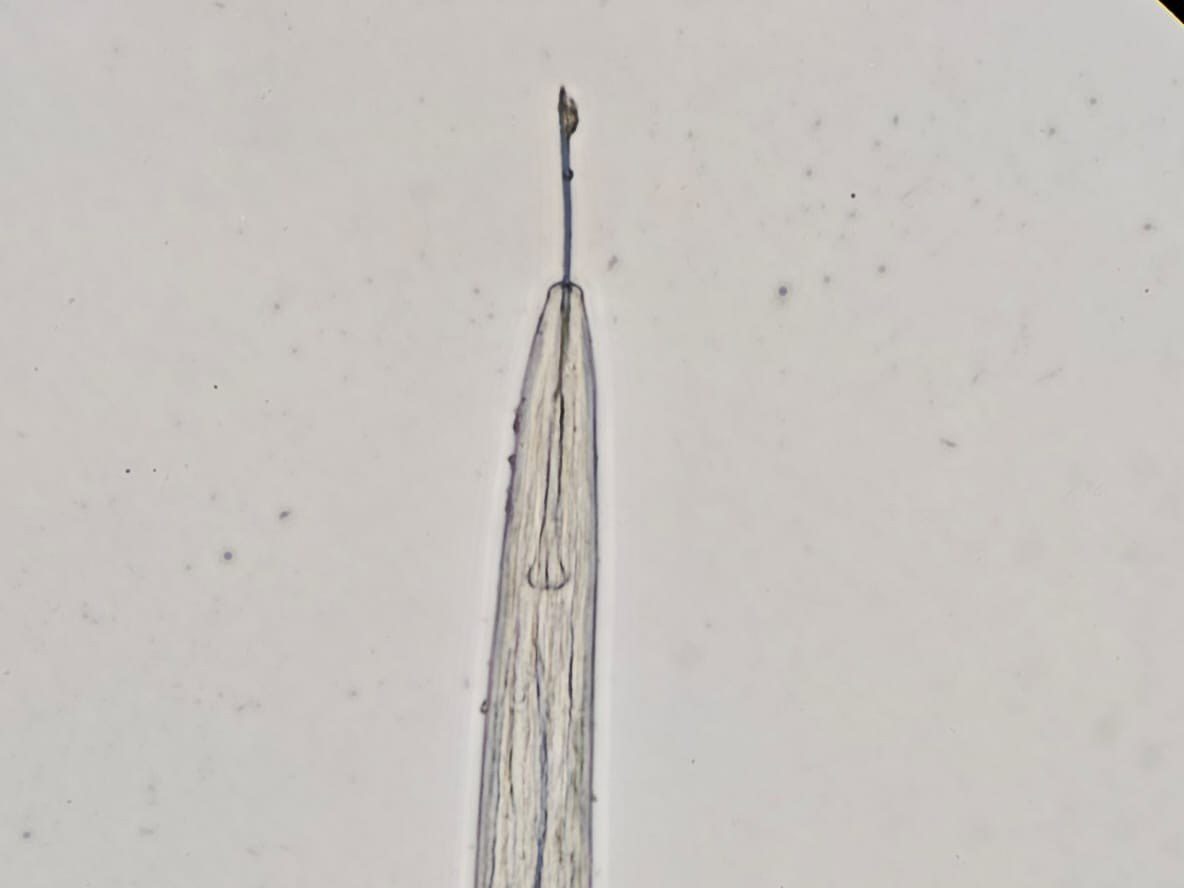
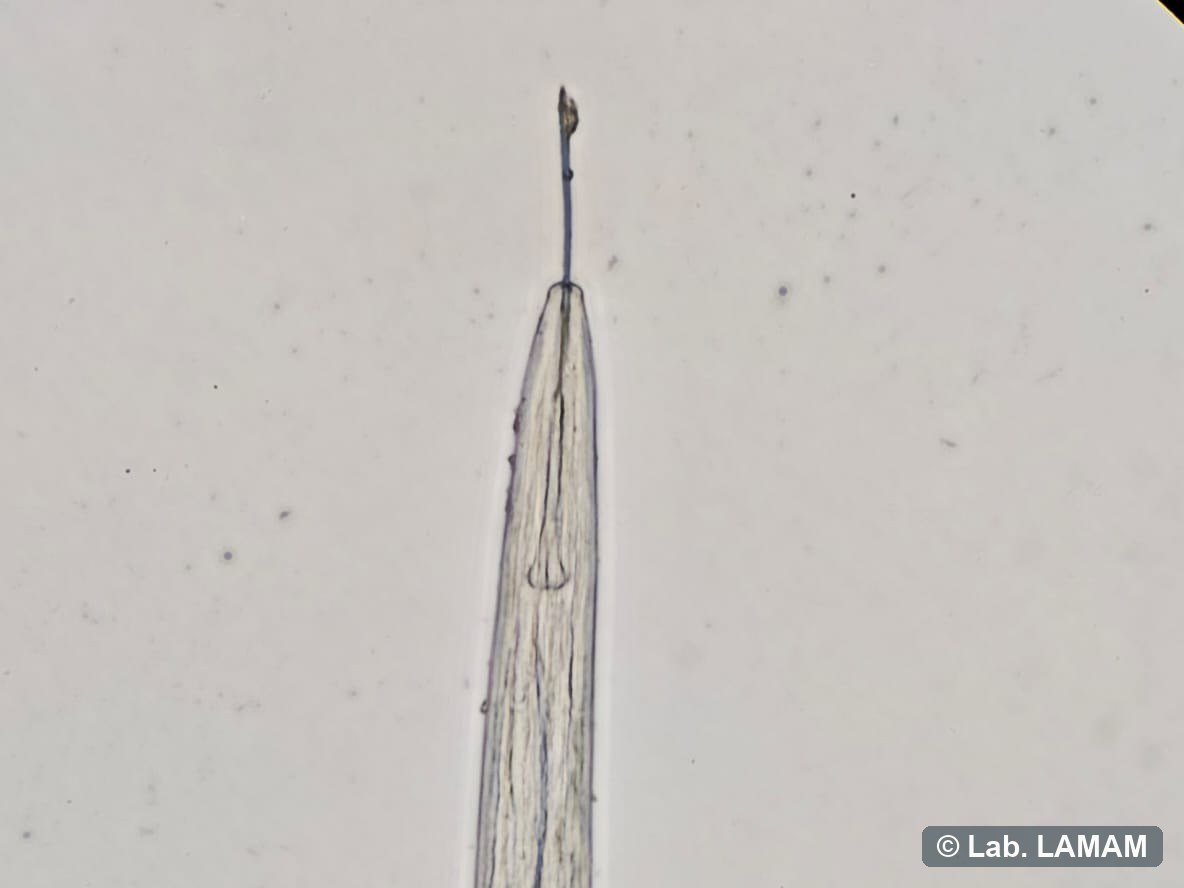
Modal de orcamento abre NA propria pagina de servico (sem ir pra home)
- orcamento.js: modal reutilizavel (CSS+HTML+envio Web3Forms) que se injeta
  na pagina e abre no lugar; gatilho via data-orc-open, data-orc pre-marca a
  analise. Incluido nas 14 paginas de servico.
- CTA "Solicitar esta analise": agora data-orc-open (mantem link p/ home como
  fallback sem-JS). Antes navegava pra index.html e "voltava pra home".
- Hero fitonematoides: marca d'agua "(c) Lab. LAMAM" de volta + ?v=2 p/ furar
  cache da imagem + alt descritivo.

Testado com Edge/Playwright: modal abre na mesma pagina, nao navega, e marca
o checkbox correto.

Changed region(s): [[0.7812, 0.9122, 1.0, 1.0]]

diff --git a/orcamento.js b/orcamento.js
@@ -1,0 +1,162 @@
+/* Modal de orçamento reutilizável para as páginas de serviço.
+   Injeta CSS + HTML + lógica de envio (Web3Forms) e abre NO LUGAR (sem navegar).
+   Uso: num link/botão, adicione  data-orc-open  e (opcional)  data-orc="<Análise>"
+   para já marcar o checkbox correspondente.
+   Obs.: a chave Web3Forms e o formulário são os MESMOS do modal inline do index.html
+   (se um dia trocar a chave, trocar nos dois lugares). */
+(function(){
+  var CSS = `
+  .orc-modal{position:fixed;inset:0;z-index:210;display:none;padding:20px;overflow-y:auto;
+    background:rgba(4,10,18,.72);backdrop-filter:blur(5px);-webkit-backdrop-filter:blur(5px)}
+  .orc-modal.on{display:block}
+  .orc-cx{background:#fff;color:#37505f;max-width:560px;width:100%;border-radius:18px;padding:30px 32px;
+    box-shadow:0 30px 80px rgba(0,0,0,.45);font-family:'Inter',system-ui,Arial,sans-serif;position:relative;margin:24px auto}
+  .orc-cx h2{font-family:'Poppins',sans-serif;font-size:1.35rem;color:#15507a;margin:0 0 4px;font-weight:700}
+  .orc-sub{font-size:.9rem;color:#5b7085;margin:0 0 18px;line-height:1.5}
+  .orc-x{position:absolute;top:14px;right:16px;background:none;border:none;font-size:26px;line-height:1;color:#8295a3;cursor:pointer}
+  .orc-x:hover{color:#15507a}
+  .orc-field{margin-bottom:14px}
+  .orc-field label.lbl{display:block;font-size:.82rem;font-weight:600;color:#37505f;margin-bottom:5px}
+  .orc-field input,.orc-field textarea{width:100%;padding:11px 13px;border:1px solid #d6e3ee;border-radius:10px;
+    font-family:inherit;font-size:.92rem;color:#37505f;background:#f9fbfd}
+  .orc-field input:focus,.orc-field textarea:focus{outline:none;border-color:#3da9dc;box-shadow:0 0 0 3px rgba(61,169,220,.15)}
+  .orc-field textarea{resize:vertical;min-height:82px}
+  .orc-checks{display:grid;grid-template-columns:1fr 1fr;gap:7px 14px;margin-top:2px}
+  .orc-checks label{display:flex;align-items:center;gap:8px;font-size:.85rem;font-weight:500;color:#37505f;cursor:pointer}
+  .orc-checks input{width:auto;accent-color:#3da9dc;flex:0 0 auto}
+  .orc-send{width:100%;margin-top:8px;padding:13px;border:none;border-radius:30px;cursor:pointer;
+    background:linear-gradient(135deg,#5cc6f5,#3da9dc);color:#04121c;font-weight:700;font-size:.98rem;font-family:inherit;
+    display:flex;align-items:center;justify-content:center;gap:8px;transition:transform .15s}
+  .orc-send:hover{transform:translateY(-2px)}
+  .orc-send svg{width:18px;height:18px}
+  .orc-note{font-size:.78rem;color:#8295a3;margin:10px 0 0;text-align:center;line-height:1.5}
+  .orc-cx .hp{display:none}
+  .orc-status{font-size:.86rem;text-align:center;margin:12px 0 0;min-height:1.1em;line-height:1.5}
+  .orc-status.ok{color:#1f9d57;font-weight:600}
+  .orc-status.err{color:#c23a3a}
+  .orc-send[disabled]{opacity:.6;cursor:default;transform:none}
+  .chkline{display:flex;align-items:flex-start;gap:8px;font-size:.88rem;font-weight:500;color:#37505f;cursor:pointer;line-height:1.4}
+  .chkline input{width:auto;accent-color:#3da9dc;flex:0 0 auto;margin-top:2px}
+  .orc-formal{border:1px dashed #cfe0ee;border-radius:10px;padding:14px 14px 2px;margin:6px 0 4px;background:#f6fafd}
+  .orc-formal[hidden]{display:none}
+  @media(max-width:520px){.orc-cx{padding:24px 20px}.orc-checks{grid-template-columns:1fr}}`;
+
+  var HTML = `
+  <div class="orc-modal" id="orcModal" role="dialog" aria-modal="true" aria-labelledby="orc-t">
+    <div class="orc-cx">
+      <button class="orc-x" id="orcClose" type="button" aria-label="Fechar">&times;</button>
+      <h2 id="orc-t">Solicitar orçamento</h2>
+      <p class="orc-sub">Preencha os dados e enviaremos o retorno por e-mail. Também fazemos <b>convênios</b> para atendimento recorrente.</p>
+      <form id="orcForm">
+        <input type="checkbox" name="botcheck" class="hp" tabindex="-1" autocomplete="off" aria-hidden="true">
+        <div class="orc-field"><label class="lbl" for="orc-nome">Nome *</label><input id="orc-nome" name="nome" type="text" required></div>
+        <div class="orc-field"><label class="lbl" for="orc-email">E-mail *</label><input id="orc-email" name="email" type="email" required></div>
+        <div class="orc-field"><label class="lbl" for="orc-fone">WhatsApp / telefone</label><input id="orc-fone" name="fone" type="tel"></div>
+        <div class="orc-field">
+          <label class="lbl">Análises de interesse</label>
+          <div class="orc-checks">
+            <label><input type="checkbox" name="analise" value="Fitonematoides"> Fitonematoides</label>
+            <label><input type="checkbox" name="analise" value="PCR de fitonematoides"> PCR de fitonematoides</label>
+            <label><input type="checkbox" name="analise" value="Fungos de solo"> Fungos de solo</label>
+            <label><input type="checkbox" name="analise" value="Patologia de plantas"> Patologia de plantas</label>
+            <label><input type="checkbox" name="analise" value="Patologia de sementes"> Patologia de sementes</label>
+            <label><input type="checkbox" name="analise" value="Compatibilidade de bioinsumos"> Compatibilidade</label>
+            <label><input type="checkbox" name="analise" value="CQ de produto comercial"> CQ produto comercial</label>
+            <label><input type="checkbox" name="analise" value="CQ On Farm"> CQ On Farm</label>
+            <label><input type="checkbox" name="analise" value="Contaminantes"> Contaminantes</label>
+            <label><input type="checkbox" name="analise" value="Recuperação em sementes"> Recuperação em sementes</label>
+            <label><input type="checkbox" name="analise" value="Conídios viáveis"> Conídios viáveis</label>
+            <label><input type="checkbox" name="analise" value="Antagonismo"> Antagonismo</label>
+            <label><input type="checkbox" name="analise" value="Placas resinadas"> Placas resinadas</label>
+            <label><input type="checkbox" name="analise" value="Broca-do-café"> Broca-do-café</label>
+          </div>
+        </div>
+        <div class="orc-field"><label class="lbl" for="orc-qtd">Quantidade de amostras (envio)</label><input id="orc-qtd" name="qtd" type="text" placeholder="ex.: 10 amostras"></div>
+        <div class="orc-field"><label class="lbl" for="orc-msg">Mensagem</label><textarea id="orc-msg" name="msg" placeholder="Conte sobre a cultura, o objetivo, etc."></textarea></div>
+        <div class="orc-field">
+          <label class="chkline"><input type="checkbox" id="orc-formal-chk"><span>Quero receber um <b>orçamento formal (PDF)</b> — preencha os dados cadastrais para emissão</span></label>
+        </div>
+        <div class="orc-formal" id="orcFormal" hidden>
+          <div class="orc-field"><label class="lbl" for="orc-doc">CPF / CNPJ</label><input id="orc-doc" name="doc" type="text"></div>
+          <div class="orc-field"><label class="lbl" for="orc-razao">Razão social / Nome completo</label><input id="orc-razao" name="razao" type="text"></div>
+          <div class="orc-field"><label class="lbl" for="orc-ie">Inscrição Estadual (se houver)</label><input id="orc-ie" name="ie" type="text"></div>
+          <div class="orc-field"><label class="lbl" for="orc-end">Endereço completo (rua, nº, bairro, cidade/UF, CEP)</label><textarea id="orc-end" name="endereco"></textarea></div>
+        </div>
+        <button class="orc-send" type="submit">Enviar solicitação
+          <svg viewBox="0 0 24 24" fill="none" stroke="currentColor" stroke-width="2.2" stroke-linecap="round" stroke-linejoin="round"><rect x="3" y="5" width="18" height="14" rx="2"/><path d="M3 7l9 6 9-6"/></svg>
+        </button>
+        <p class="orc-status" id="orcStatus" role="status" aria-live="polite"></p>
+        <p class="orc-note">Retornamos por e-mail. Seus dados são usados apenas para responder à solicitação.</p>
+      </form>
+    </div>
+  </div>`;
+
+  function init(){
+    var st=document.createElement('style'); st.textContent=CSS; document.head.appendChild(st);
+    var host=document.createElement('div'); host.innerHTML=HTML;
+    while(host.firstChild) document.body.appendChild(host.firstChild);
+
+    var modal=document.getElementById('orcModal'),
+        closeBtn=document.getElementById('orcClose'),
+        form=document.getElementById('orcForm');
+    function abrir(){ modal.classList.add('on'); document.body.style.overflow='hidden'; }
+    function fechar(){ modal.classList.remove('on'); document.body.style.overflow=''; }
+    function marcar(val){ if(!val) return;
+      var cb=form.querySelector('input[name="analise"][value="'+val+'"]'); if(cb) cb.checked=true; }
+
+    var triggers=document.querySelectorAll('[data-orc-open]');
+    for(var i=0;i<triggers.length;i++){
+      (function(t){
+        t.addEventListener('click', function(e){ e.preventDefault(); marcar(t.getAttribute('data-orc')||''); abrir(); });
+      })(triggers[i]);
+    }
+
+    var formalChk=document.getElementById('orc-formal-chk'), formalBox=document.getElementById('orcFormal');
+    if(formalChk) formalChk.addEventListener('change', function(){ formalBox.hidden=!formalChk.checked; });
+    closeBtn.addEventListener('click', fechar);
+    modal.addEventListener('click', function(e){ if(e.target===modal) fechar(); });
+    document.addEventListener('keydown', function(e){ if(e.key==='Escape' && modal.classList.contains('on')) fechar(); });
+
+    var ACCESS_KEY='be67f93f-8ec7-455b-a68c-40cace448d92';
+    var statusEl=document.getElementById('orcStatus'), sendBtn=form.querySelector('.orc-send');
+    form.addEventListener('submit', function(e){
+      e.preventDefault();
+      var nome=form.nome.value.trim(), email=form.email.value.trim(), fone=form.fone.value.trim(),
+          qtd=form.qtd.value.trim(), msg=form.msg.value.trim();
+      var ans=[].slice.call(form.querySelectorAll('input[name="analise"]:checked')).map(function(c){return c.value;});
+      var formal=!!(formalChk && formalChk.checked);
+      var corpo='WhatsApp/telefone: '+(fone||'—')
+        +'\nAnálises de interesse: '+(ans.length?ans.join(', '):'—')
+        +'\nQuantidade de amostras: '+(qtd||'—')
+        +'\n\nMensagem:\n'+(msg||'—');
+      if(formal){
+        corpo += '\n\n--- Orçamento formal (PDF) solicitado ---'
+          +'\nCPF/CNPJ: '+(form.doc.value.trim()||'—')
+          +'\nRazão social/Nome: '+(form.razao.value.trim()||'—')
+          +'\nInscrição Estadual: '+(form.ie.value.trim()||'—')
+          +'\nEndereço: '+(form.endereco.value.trim()||'—');
+      }
+      var payload={ access_key:ACCESS_KEY,
+        subject:'Nova solicitação de orçamento'+(formal?' FORMAL (PDF)':'')+' — Site LAMAM',
+        from_name:'Site LAMAM', botcheck:form.botcheck.checked, name:nome, email:email, message:corpo };
+      var falha='Não foi possível enviar agora. Fale pelo WhatsApp ou escreva para '
+        +'<a href="mailto:lamam@laboratoriolamam.com.br">lamam@laboratoriolamam.com.br</a>.';
+      statusEl.textContent='Enviando...'; statusEl.className='orc-status'; sendBtn.disabled=true;
+      fetch('https://api.web3forms.com/submit',{method:'POST',
+          headers:{'Content-Type':'application/json',Accept:'application/json'},
+          body:JSON.stringify(payload)})
+        .then(function(r){return r.json();})
+        .then(function(j){
+          sendBtn.disabled=false;
+          if(j&&j.success){
+            statusEl.textContent='Solicitação enviada! Retornaremos por e-mail em breve.';
+            statusEl.className='orc-status ok'; form.reset(); if(formalBox) formalBox.hidden=true; setTimeout(fechar,2400);
+          } else { statusEl.innerHTML=falha; statusEl.className='orc-status err'; }
+        })
+        .catch(function(){ sendBtn.disabled=false; statusEl.innerHTML=falha; statusEl.className='orc-status err'; });
+    });
+  }
+
+  if(document.readyState==='loading') document.addEventListener('DOMContentLoaded', init);
+  else init();
+})();

diff --git a/servicos/fitonematoides.html b/servicos/fitonematoides.html
@@ -44,11 +44,11 @@
       <h1>Quantificação de fitonematoides em solo e raiz</h1>
       <p class="lead">Extração e contagem de fitonematoides em solo e raízes.</p>
       <div class="acoes">
-        <a class="btn" href="../index.html#orc=fitonematoides"><svg viewBox="0 0 24 24" fill="none" stroke="currentColor" stroke-width="2.2" stroke-linecap="round" stroke-linejoin="round"><path d="M14 3H7a2 2 0 0 0-2 2v14a2 2 0 0 0 2 2h10a2 2 0 0 0 2-2V8z"/><path d="M14 3v5h5M9 13h6M9 17h4"/></svg> Solicitar esta análise</a>
+        <a class="btn" href="../index.html#orc=fitonematoides" data-orc-open data-orc="Fitonematoides"><svg viewBox="0 0 24 24" fill="none" stroke="currentColor" stroke-width="2.2" stroke-linecap="round" stroke-linejoin="round"><path d="M14 3H7a2 2 0 0 0-2 2v14a2 2 0 0 0 2 2h10a2 2 0 0 0 2-2V8z"/><path d="M14 3v5h5M9 13h6M9 17h4"/></svg> Solicitar esta análise</a>
         <a class="btn btn-soft" href="../index.html#servicos">&larr; Ver todos</a>
       </div>
     </div>
-    <div class="svc-hero-img"><img src="../img/svc-fitonematoides.jpg" alt="" loading="lazy"></div>
+    <div class="svc-hero-img"><img src="../img/svc-fitonematoides.jpg?v=2" alt="Região anterior de fitonematoide com estilete, em microscopia" loading="lazy"></div>
   </div>
 </section>
 
@@ -183,5 +183,6 @@
 })();
 </script>
 <!-- /LAMAM:analytics -->
+<script src="../orcamento.js"></script>
 </body>
 </html>

diff --git a/servicos/compatibilidade.html b/servicos/compatibilidade.html
@@ -44,7 +44,7 @@
       <h1>Compatibilidade entre produtos biológicos e químicos/fertilizantes</h1>
       <p class="lead">Teste de compatibilidade em calda e em tratamento de sementes (TS).</p>
       <div class="acoes">
-        <a class="btn" href="../index.html#orc=compatibilidade"><svg viewBox="0 0 24 24" fill="none" stroke="currentColor" stroke-width="2.2" stroke-linecap="round" stroke-linejoin="round"><path d="M14 3H7a2 2 0 0 0-2 2v14a2 2 0 0 0 2 2h10a2 2 0 0 0 2-2V8z"/><path d="M14 3v5h5M9 13h6M9 17h4"/></svg> Solicitar esta análise</a>
+        <a class="btn" href="../index.html#orc=compatibilidade" data-orc-open data-orc="Compatibilidade de bioinsumos"><svg viewBox="0 0 24 24" fill="none" stroke="currentColor" stroke-width="2.2" stroke-linecap="round" stroke-linejoin="round"><path d="M14 3H7a2 2 0 0 0-2 2v14a2 2 0 0 0 2 2h10a2 2 0 0 0 2-2V8z"/><path d="M14 3v5h5M9 13h6M9 17h4"/></svg> Solicitar esta análise</a>
         <a class="btn btn-soft" href="../index.html#servicos">&larr; Ver todos</a>
       </div>
     </div>
@@ -182,5 +182,6 @@
 })();
 </script>
 <!-- /LAMAM:analytics -->
+<script src="../orcamento.js"></script>
 </body>
 </html>

diff --git a/servicos/cq-produto-comercial.html b/servicos/cq-produto-comercial.html
@@ -44,7 +44,7 @@
       <h1>Controle de qualidade de produto biológico comercial</h1>
       <p class="lead">Concentração e pureza de inoculantes e produtos biológicos comerciais.</p>
       <div class="acoes">
-        <a class="btn" href="../index.html#orc=cq-produto-comercial"><svg viewBox="0 0 24 24" fill="none" stroke="currentColor" stroke-width="2.2" stroke-linecap="round" stroke-linejoin="round"><path d="M14 3H7a2 2 0 0 0-2 2v14a2 2 0 0 0 2 2h10a2 2 0 0 0 2-2V8z"/><path d="M14 3v5h5M9 13h6M9 17h4"/></svg> Solicitar esta análise</a>
+        <a class="btn" href="../index.html#orc=cq-produto-comercial" data-orc-open data-orc="CQ de produto comercial"><svg viewBox="0 0 24 24" fill="none" stroke="currentColor" stroke-width="2.2" stroke-linecap="round" stroke-linejoin="round"><path d="M14 3H7a2 2 0 0 0-2 2v14a2 2 0 0 0 2 2h10a2 2 0 0 0 2-2V8z"/><path d="M14 3v5h5M9 13h6M9 17h4"/></svg> Solicitar esta análise</a>
         <a class="btn btn-soft" href="../index.html#servicos">&larr; Ver todos</a>
       </div>
     </div>
@@ -182,5 +182,6 @@
 })();
 </script>
 <!-- /LAMAM:analytics -->
+<script src="../orcamento.js"></script>
 </body>
 </html>

diff --git a/servicos/placas-resinadas.html b/servicos/placas-resinadas.html
@@ -44,7 +44,7 @@
       <h1>Confecção de placas com microrganismos resinadas</h1>
       <p class="lead">Placas de microrganismos preservadas em resina, para didática e exposição.</p>
       <div class="acoes">
-        <a class="btn" href="../index.html#orc=placas-resinadas"><svg viewBox="0 0 24 24" fill="none" stroke="currentColor" stroke-width="2.2" stroke-linecap="round" stroke-linejoin="round"><path d="M14 3H7a2 2 0 0 0-2 2v14a2 2 0 0 0 2 2h10a2 2 0 0 0 2-2V8z"/><path d="M14 3v5h5M9 13h6M9 17h4"/></svg> Solicitar esta análise</a>
+        <a class="btn" href="../index.html#orc=placas-resinadas" data-orc-open data-orc="Placas resinadas"><svg viewBox="0 0 24 24" fill="none" stroke="currentColor" stroke-width="2.2" stroke-linecap="round" stroke-linejoin="round"><path d="M14 3H7a2 2 0 0 0-2 2v14a2 2 0 0 0 2 2h10a2 2 0 0 0 2-2V8z"/><path d="M14 3v5h5M9 13h6M9 17h4"/></svg> Solicitar esta análise</a>
         <a class="btn btn-soft" href="../index.html#servicos">&larr; Ver todos</a>
       </div>
     </div>
@@ -181,5 +181,6 @@
 })();
 </script>
 <!-- /LAMAM:analytics -->
+<script src="../orcamento.js"></script>
 </body>
 </html>

diff --git a/servicos/pcr-fitonematoides.html b/servicos/pcr-fitonematoides.html
@@ -44,7 +44,7 @@
       <h1>Identificação de espécie de fitonematoides por PCR</h1>
       <p class="lead">Identificação molecular de espécies de Meloidogyne por PCR.</p>
       <div class="acoes">
-        <a class="btn" href="../index.html#orc=pcr-fitonematoides"><svg viewBox="0 0 24 24" fill="none" stroke="currentColor" stroke-width="2.2" stroke-linecap="round" stroke-linejoin="round"><path d="M14 3H7a2 2 0 0 0-2 2v14a2 2 0 0 0 2 2h10a2 2 0 0 0 2-2V8z"/><path d="M14 3v5h5M9 13h6M9 17h4"/></svg> Solicitar esta análise</a>
+        <a class="btn" href="../index.html#orc=pcr-fitonematoides" data-orc-open data-orc="PCR de fitonematoides"><svg viewBox="0 0 24 24" fill="none" stroke="currentColor" stroke-width="2.2" stroke-linecap="round" stroke-linejoin="round"><path d="M14 3H7a2 2 0 0 0-2 2v14a2 2 0 0 0 2 2h10a2 2 0 0 0 2-2V8z"/><path d="M14 3v5h5M9 13h6M9 17h4"/></svg> Solicitar esta análise</a>
         <a class="btn btn-soft" href="../index.html#servicos">&larr; Ver todos</a>
       </div>
     </div>
@@ -182,5 +182,6 @@
 })();
 </script>
 <!-- /LAMAM:analytics -->
+<script src="../orcamento.js"></script>
 </body>
 </html>

diff --git a/servicos/antagonismo.html b/servicos/antagonismo.html
@@ -44,7 +44,7 @@
       <h1>Isolamento de microrganismos e ensaios de antagonismo in vitro</h1>
       <p class="lead">Isolamento de microrganismos e testes de antagonismo (biocontrole) in vitro.</p>
       <div class="acoes">
-        <a class="btn" href="../index.html#orc=antagonismo"><svg viewBox="0 0 24 24" fill="none" stroke="currentColor" stroke-width="2.2" stroke-linecap="round" stroke-linejoin="round"><path d="M14 3H7a2 2 0 0 0-2 2v14a2 2 0 0 0 2 2h10a2 2 0 0 0 2-2V8z"/><path d="M14 3v5h5M9 13h6M9 17h4"/></svg> Solicitar esta análise</a>
+        <a class="btn" href="../index.html#orc=antagonismo" data-orc-open data-orc="Antagonismo"><svg viewBox="0 0 24 24" fill="none" stroke="currentColor" stroke-width="2.2" stroke-linecap="round" stroke-linejoin="round"><path d="M14 3H7a2 2 0 0 0-2 2v14a2 2 0 0 0 2 2h10a2 2 0 0 0 2-2V8z"/><path d="M14 3v5h5M9 13h6M9 17h4"/></svg> Solicitar esta análise</a>
         <a class="btn btn-soft" href="../index.html#servicos">&larr; Ver todos</a>
       </div>
     </div>
@@ -182,5 +182,6 @@
 })();
 </script>
 <!-- /LAMAM:analytics -->
+<script src="../orcamento.js"></script>
 </body>
 </html>

diff --git a/servicos/recuperacao-sementes.html b/servicos/recuperacao-sementes.html
@@ -44,7 +44,7 @@
       <h1>Recuperação de microrganismos em sementes</h1>
       <p class="lead">Contagem dos microrganismos recuperados de sementes tratadas.</p>
       <div class="acoes">
-        <a class="btn" href="../index.html#orc=recuperacao-sementes"><svg viewBox="0 0 24 24" fill="none" stroke="currentColor" stroke-width="2.2" stroke-linecap="round" stroke-linejoin="round"><path d="M14 3H7a2 2 0 0 0-2 2v14a2 2 0 0 0 2 2h10a2 2 0 0 0 2-2V8z"/><path d="M14 3v5h5M9 13h6M9 17h4"/></svg> Solicitar esta análise</a>
+        <a class="btn" href="../index.html#orc=recuperacao-sementes" data-orc-open data-orc="Recuperação em sementes"><svg viewBox="0 0 24 24" fill="none" stroke="currentColor" stroke-width="2.2" stroke-linecap="round" stroke-linejoin="round"><path d="M14 3H7a2 2 0 0 0-2 2v14a2 2 0 0 0 2 2h10a2 2 0 0 0 2-2V8z"/><path d="M14 3v5h5M9 13h6M9 17h4"/></svg> Solicitar esta análise</a>
         <a class="btn btn-soft" href="../index.html#servicos">&larr; Ver todos</a>
       </div>
     </div>
@@ -182,5 +182,6 @@
 })();
 </script>
 <!-- /LAMAM:analytics -->
+<script src="../orcamento.js"></script>
 </body>
 </html>

diff --git a/servicos/broca-do-cafe.html b/servicos/broca-do-cafe.html
@@ -44,7 +44,7 @@
       <h1>Bioensaio e venda de broca-do-café</h1>
       <p class="lead">Bioensaios de eficácia e fornecimento de broca-do-café (Hypothenemus hampei).</p>
       <div class="acoes">
-        <a class="btn" href="../index.html#orc=broca-do-cafe"><svg viewBox="0 0 24 24" fill="none" stroke="currentColor" stroke-width="2.2" stroke-linecap="round" stroke-linejoin="round"><path d="M14 3H7a2 2 0 0 0-2 2v14a2 2 0 0 0 2 2h10a2 2 0 0 0 2-2V8z"/><path d="M14 3v5h5M9 13h6M9 17h4"/></svg> Solicitar esta análise</a>
+        <a class="btn" href="../index.html#orc=broca-do-cafe" data-orc-open data-orc="Broca-do-café"><svg viewBox="0 0 24 24" fill="none" stroke="currentColor" stroke-width="2.2" stroke-linecap="round" stroke-linejoin="round"><path d="M14 3H7a2 2 0 0 0-2 2v14a2 2 0 0 0 2 2h10a2 2 0 0 0 2-2V8z"/><path d="M14 3v5h5M9 13h6M9 17h4"/></svg> Solicitar esta análise</a>
         <a class="btn btn-soft" href="../index.html#servicos">&larr; Ver todos</a>
       </div>
     </div>
@@ -181,5 +181,6 @@
 })();
 </script>
 <!-- /LAMAM:analytics -->
+<script src="../orcamento.js"></script>
 </body>
 </html>

diff --git a/servicos/contaminantes.html b/servicos/contaminantes.html
@@ -44,7 +44,7 @@
       <h1>Análise de contaminantes</h1>
       <p class="lead">Coliformes, enterobactérias, bolores e leveduras em bioinsumos, água e matérias-primas.</p>
       <div class="acoes">
-        <a class="btn" href="../index.html#orc=contaminantes"><svg viewBox="0 0 24 24" fill="none" stroke="currentColor" stroke-width="2.2" stroke-linecap="round" stroke-linejoin="round"><path d="M14 3H7a2 2 0 0 0-2 2v14a2 2 0 0 0 2 2h10a2 2 0 0 0 2-2V8z"/><path d="M14 3v5h5M9 13h6M9 17h4"/></svg> Solicitar esta análise</a>
+        <a class="btn" href="../index.html#orc=contaminantes" data-orc-open data-orc="Contaminantes"><svg viewBox="0 0 24 24" fill="none" stroke="currentColor" stroke-width="2.2" stroke-linecap="round" stroke-linejoin="round"><path d="M14 3H7a2 2 0 0 0-2 2v14a2 2 0 0 0 2 2h10a2 2 0 0 0 2-2V8z"/><path d="M14 3v5h5M9 13h6M9 17h4"/></svg> Solicitar esta análise</a>
         <a class="btn btn-soft" href="../index.html#servicos">&larr; Ver todos</a>
       </div>
     </div>
@@ -182,5 +182,6 @@
 })();
 </script>
 <!-- /LAMAM:analytics -->
+<script src="../orcamento.js"></script>
 </body>
 </html>

diff --git a/servicos/conidios-viaveis.html b/servicos/conidios-viaveis.html
@@ -44,7 +44,7 @@
       <h1>Conídios viáveis</h1>
       <p class="lead">Concentração de conídios e percentual de viabilidade (germinação) do bioinsumo.</p>
       <div class="acoes">
-        <a class="btn" href="../index.html#orc=conidios-viaveis"><svg viewBox="0 0 24 24" fill="none" stroke="currentColor" stroke-width="2.2" stroke-linecap="round" stroke-linejoin="round"><path d="M14 3H7a2 2 0 0 0-2 2v14a2 2 0 0 0 2 2h10a2 2 0 0 0 2-2V8z"/><path d="M14 3v5h5M9 13h6M9 17h4"/></svg> Solicitar esta análise</a>
+        <a class="btn" href="../index.html#orc=conidios-viaveis" data-orc-open data-orc="Conídios viáveis"><svg viewBox="0 0 24 24" fill="none" stroke="currentColor" stroke-width="2.2" stroke-linecap="round" stroke-linejoin="round"><path d="M14 3H7a2 2 0 0 0-2 2v14a2 2 0 0 0 2 2h10a2 2 0 0 0 2-2V8z"/><path d="M14 3v5h5M9 13h6M9 17h4"/></svg> Solicitar esta análise</a>
         <a class="btn btn-soft" href="../index.html#servicos">&larr; Ver todos</a>
       </div>
     </div>
@@ -182,5 +182,6 @@
 })();
 </script>
 <!-- /LAMAM:analytics -->
+<script src="../orcamento.js"></script>
 </body>
 </html>

diff --git a/servicos/patologia-sementes.html b/servicos/patologia-sementes.html
@@ -44,7 +44,7 @@
       <h1>Patologia de sementes</h1>
       <p class="lead">Sanidade de sementes — detecção de fungos e patógenos.</p>
       <div class="acoes">
-        <a class="btn" href="../index.html#orc=patologia-sementes"><svg viewBox="0 0 24 24" fill="none" stroke="currentColor" stroke-width="2.2" stroke-linecap="round" stroke-linejoin="round"><path d="M14 3H7a2 2 0 0 0-2 2v14a2 2 0 0 0 2 2h10a2 2 0 0 0 2-2V8z"/><path d="M14 3v5h5M9 13h6M9 17h4"/></svg> Solicitar esta análise</a>
+        <a class="btn" href="../index.html#orc=patologia-sementes" data-orc-open data-orc="Patologia de sementes"><svg viewBox="0 0 24 24" fill="none" stroke="currentColor" stroke-width="2.2" stroke-linecap="round" stroke-linejoin="round"><path d="M14 3H7a2 2 0 0 0-2 2v14a2 2 0 0 0 2 2h10a2 2 0 0 0 2-2V8z"/><path d="M14 3v5h5M9 13h6M9 17h4"/></svg> Solicitar esta análise</a>
         <a class="btn btn-soft" href="../index.html#servicos">&larr; Ver todos</a>
       </div>
     </div>
@@ -185,5 +185,6 @@
 })();
 </script>
 <!-- /LAMAM:analytics -->
+<script src="../orcamento.js"></script>
 </body>
 </html>
